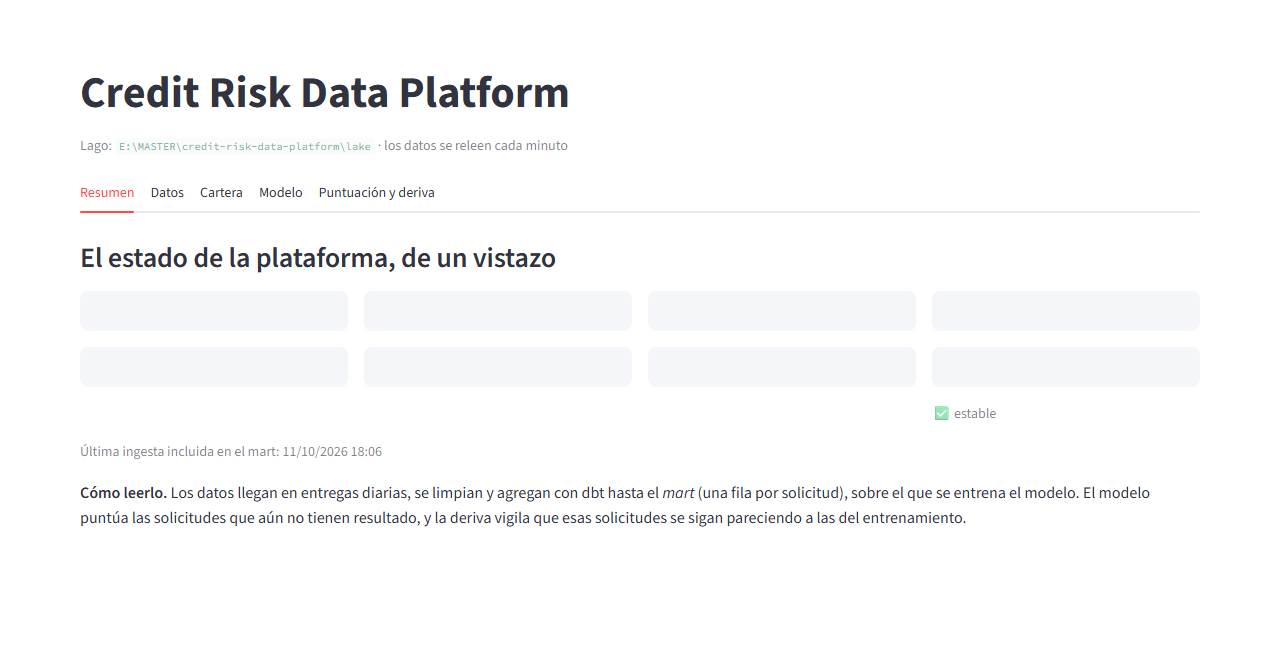
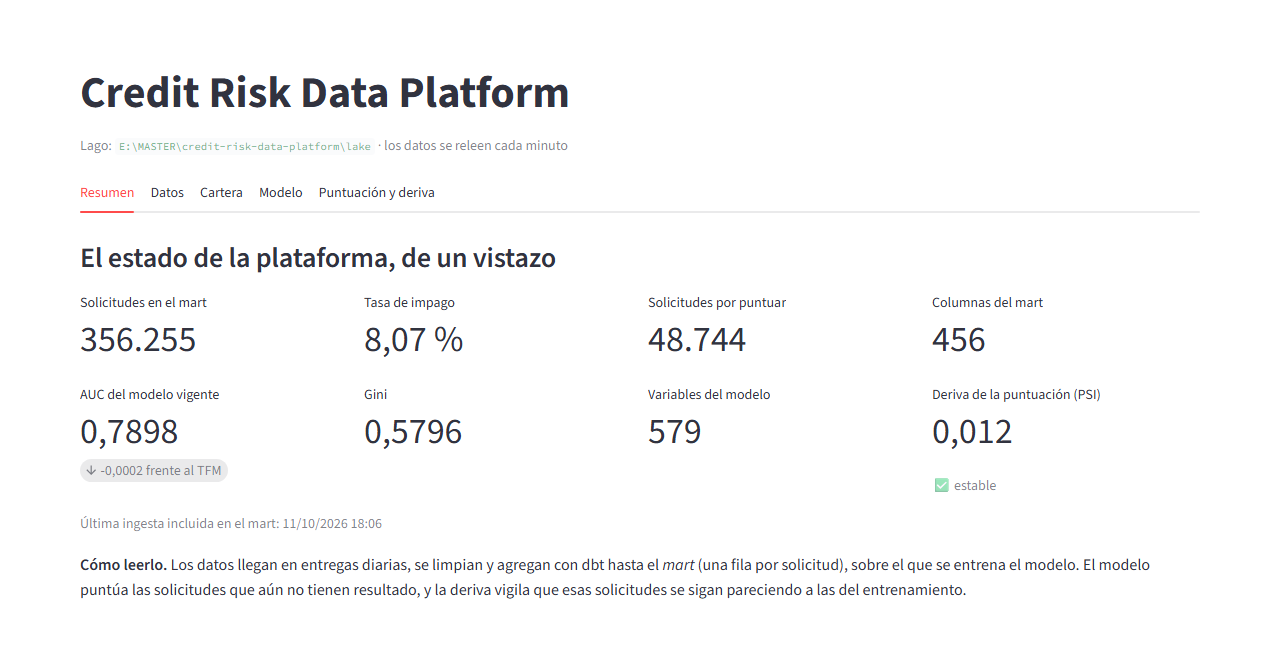
docs: documentación de dbt en GitHub Pages, guía de 5 minutos y panel fiable con pocas solicitudes (#33)
* docs: documentación de dbt en GitHub Pages, guía de 5 minutos y panel fiable con pocas solicitudes

Nuevo workflow que publica dbt docs (catálogo y grafo de linaje) en GitHub Pages. El README gana una guía para ver el proyecto funcionando con la muestra y la captura del linaje. El panel aplica la regla de monitor-drift: con menos de 1.000 solicitudes enseña el PSI sin darle un estado.

* docs: captura del resumen del panel con las cifras cargadas

diff --git a/panel/app.py b/panel/app.py
@@ -23,6 +23,7 @@ from credit_risk.config import (
     MODELS_DIR,
     SCORING_URI,
 )
+from credit_risk.deriva import MINIMO_SOLICITUDES
 
 ALMACEN = LAKE_DIR / "warehouse.duckdb"
 AUC_TFM = 0.7900
@@ -31,7 +32,12 @@ PSI_MODERADO, PSI_IMPORTANTE = 0.10, 0.25
 # Un solo azul para las magnitudes; gris para las referencias. Los colores de estado
 # solo se usan para el estado, y siempre acompañados de su etiqueta escrita.
 AZUL, GRIS = "#2a78d6", "#898781"
-ESTADOS = {"estable": "#0ca30c", "moderado": "#fab219", "importante": "#d03b3b"}
+ESTADOS = {
+    "estable": "#0ca30c",
+    "moderado": "#fab219",
+    "importante": "#d03b3b",
+    "sin valorar": GRIS,  # PSI calculado con muy pocos casos
+}
 ICONO = {"estable": "✅", "moderado": "⚠", "importante": "🔴"}
 
 st.set_page_config(page_title="Credit Risk Data Platform", page_icon="📊", layout="wide")
@@ -108,6 +114,14 @@ mart = cargar("resumen_mart", ALMACEN)
 modelo = cargar("modelo_vigente", MODELS_DIR)
 informe = cargar("deriva", DERIVA_URI, modelo["modelo"]) if modelo else pd.DataFrame()
 psi_puntuacion = float(informe.iloc[0]["psi"]) if len(informe) else None
+# Con pocas solicitudes el PSI es ruido: se enseña, pero sin darle un estado (la misma
+# regla que aplica el comando monitor-drift para no dar falsas alarmas)
+comparadas = int(informe.iloc[0]["solicitudes"]) if len(informe) else 0
+psi_fiable = comparadas >= MINIMO_SOLICITUDES
+POCO_FIABLE = (
+    f"Con {comparadas} solicitudes (menos de {MINIMO_SOLICITUDES}) el PSI no es fiable: "
+    "cada tramo tiene un puñado de casos y las diferencias son ruido, no deriva."
+)
 
 st.title("Credit Risk Data Platform")
 st.caption(f"Lago: `{LAKE_DIR}` · los datos se releen cada minuto")
@@ -151,7 +165,10 @@ with resumen:
     else:
         situacion = informe.iloc[0]["estado"]
         d.metric("Deriva de la puntuación (PSI)", decimal(psi_puntuacion, 3))
-        d.caption(f"{ICONO[situacion]} {situacion}")
+        if psi_fiable:
+            d.caption(f"{ICONO[situacion]} {situacion}")
+        else:
+            d.caption("no fiable: pocas solicitudes")
 
     st.caption(f"Última ingesta incluida en el mart: {mart['ingerido_hasta']:%d/%m/%Y %H:%M}")
     st.markdown(
@@ -385,14 +402,19 @@ with puntuacion:
             st.info("No hay informe de deriva para este modelo: ejecuta `monitor-drift`.")
         else:
             situacion = informe.iloc[0]["estado"]
-            st.markdown(
-                f"**Puntuación del modelo: PSI {decimal(psi_puntuacion, 3)} — "
-                f"{ICONO[situacion]} {situacion}.** Por debajo de {decimal(PSI_MODERADO, 2)} la "
-                f"población es estable; por encima de {decimal(PSI_IMPORTANTE, 2)} hay que "
-                "revisar el "
-                "modelo."
-            )
+            if psi_fiable:
+                st.markdown(
+                    f"**Puntuación del modelo: PSI {decimal(psi_puntuacion, 3)} — "
+                    f"{ICONO[situacion]} {situacion}.** Por debajo de "
+                    f"{decimal(PSI_MODERADO, 2)} la población es estable; por encima de "
+                    f"{decimal(PSI_IMPORTANTE, 2)} hay que revisar el modelo."
+                )
+            else:
+                st.warning(POCO_FIABLE)
+                st.markdown(f"**Puntuación del modelo: PSI {decimal(psi_puntuacion, 3)}.**")
             variables = informe.iloc[1:].head(15).copy()
+            if not psi_fiable:
+                variables["estado"] = "sin valorar"
             variables["etiqueta"] = variables.apply(
                 lambda f: f"{decimal(f['psi'], 3)} · {f['estado']}", axis=1
             )

diff --git a/tests/test_panel.py b/tests/test_panel.py
@@ -228,6 +228,10 @@ def test_el_panel_completo_con_modelo_puntuaciones_y_deriva(lake):
     assert historial["modelo"].tolist() == [resumen["modelo"]]
     assert historial.loc[0, "auc"] == pytest.approx(resumen["auc"])
 
+    # Con 300 solicitudes el PSI no es fiable: el panel lo avisa en vez de dar un estado
+    assert any("el PSI no es fiable" in a.value for a in panel.warning)
+    assert any("no fiable" in t.value for t in panel.caption)
+
     # Consultar una solicitud puntuada enseña su decil
     panel.number_input[0].set_value(1_100_000).run()
     assert not panel.exception

diff --git a/README.es.md b/README.es.md
@@ -27,6 +27,32 @@ Docker / Docker Compose · Terraform · LightGBM · MLflow · Streamlit
 - [x] Fase 5 — Cloud + Terraform + despliegue continuo (sobre AWS emulado; el despliegue a AWS real está listo pero desactivado)
 - [x] Fase 6 — La plataforma en uso: modelo de scoring sobre el mart, puntuación por lotes y monitorización de deriva
 
+## Verlo funcionando en 5 minutos
+
+Sin descargar nada de Kaggle y sin Docker: el repositorio trae una muestra sintética.
+Solo hace falta [uv](https://docs.astral.sh/uv/), que instala el Python adecuado.
+
+```bash
+git clone https://github.com/att-22/credit-risk-data-platform.git
+cd credit-risk-data-platform
+export DATA_DIR=tests/fixtures/muestra      # la muestra sintética del repositorio
+
+uv sync --group ml --group panel            # dependencias, con el modelo y el panel
+uv run simulate-source                      # el "banco" deja 30 entregas diarias
+uv run ingest-bronze                        # landing -> bronze (Parquet)
+(cd transform && uv run dbt deps && uv run dbt build)   # bronze -> mart, con sus tests
+uv run train-model --prueba                 # entrena el modelo sobre el mart
+uv run score                                # puntúa las solicitudes sin resultado
+uv run monitor-drift                        # las compara con la población de entrenamiento
+uv run streamlit run panel/app.py           # abre el panel en http://localhost:8501
+```
+
+Tarda unos dos minutos. La muestra tiene 314 clientes con los valores barajados, así
+que las cifras no significan nada (y con 52 solicitudes puntuadas, el panel avisa de
+que la medida de deriva no es fiable); lo que se ve es el camino entero funcionando,
+de los ficheros de origen al panel. Las capturas de este README son con los datos
+completos.
+
 ## Panel
 
 Todo lo que produce la plataforma acaba en ficheros Parquet; el panel es donde se ve.
@@ -92,6 +118,14 @@ flowchart LR
 | **Gold** | dbt, tabla **incremental** | Solicitud + ratios financieros + recorte de ingresos a un tope congelado (p99,9 de train) + los 5 historiales agregados. Train y test en la misma tabla (columna `CONJUNTO`). |
 
 ### Linaje de los modelos dbt
+
+La documentación de dbt (cada modelo, sus columnas, su SQL y sus tests, y el grafo de
+linaje navegable) se publica en GitHub Pages con cada cambio:
+**[att-22.github.io/credit-risk-data-platform](https://att-22.github.io/credit-risk-data-platform/)**
+
+![Grafo de linaje de dbt](docs/img/dbt-linaje.png)
+
+Una vista simplificada del mismo grafo:
 
 ```mermaid
 flowchart LR
@@ -592,6 +626,10 @@ En cada PR, GitHub Actions ejecuta en paralelo:
 
 `main` está protegida: solo se puede cambiar mediante PR, con la CI en verde y
 *squash merge*.
+
+Hay dos workflows más, fuera de los checks de los PR: **Documentación** publica la
+documentación de dbt en GitHub Pages cuando cambia el proyecto dbt, y **Despliegue**
+aplicaría la infraestructura en AWS real (desactivado; ver más arriba).
 
 ## Datos
 

diff --git a/README.md b/README.md
@@ -30,6 +30,31 @@ Docker / Docker Compose · Terraform · LightGBM · MLflow · Streamlit
 - [x] Phase 5 — Cloud + Terraform + continuous deployment (on emulated AWS; the deployment to real AWS is ready but disabled)
 - [x] Phase 6 — Putting the platform to use: scoring model on the mart, batch scoring and drift monitoring
 
+## See it working in 5 minutes
+
+No Kaggle download and no Docker: the repository ships a synthetic sample. You only
+need [uv](https://docs.astral.sh/uv/), which installs the right Python.
+
+```bash
+git clone https://github.com/att-22/credit-risk-data-platform.git
+cd credit-risk-data-platform
+export DATA_DIR=tests/fixtures/muestra      # the synthetic sample in the repository
+
+uv sync --group ml --group panel            # dependencies, with the model and the dashboard
+uv run simulate-source                      # the "bank" leaves 30 daily deliveries
+uv run ingest-bronze                        # landing -> bronze (Parquet)
+(cd transform && uv run dbt deps && uv run dbt build)   # bronze -> mart, with its tests
+uv run train-model --prueba                 # trains the model on the mart
+uv run score                                # scores the applications with no outcome
+uv run monitor-drift                        # compares them with the training population
+uv run streamlit run panel/app.py           # opens the dashboard at http://localhost:8501
+```
+
+It takes about two minutes. The sample has 314 customers with shuffled values, so
+the numbers mean nothing (and with 52 applications scored, the dashboard says the
+drift measure is not reliable); what you see is the whole path working, from the
+source files to the dashboard. The screenshots in this README use the full data.
+
 ## Dashboard
 
 Everything the platform produces ends up in Parquet files; the dashboard is where you
@@ -95,6 +120,14 @@ flowchart LR
 | **Gold** | dbt, **incremental** table | Application + financial ratios + income capped at a frozen threshold (train p99.9) + the 5 aggregated histories. Train and test share the same table (`CONJUNTO` column). |
 
 ### dbt model lineage
+
+The dbt documentation (every model, its columns, SQL and tests, and the navigable
+lineage graph) is published on GitHub Pages on every change:
+**[att-22.github.io/credit-risk-data-platform](https://att-22.github.io/credit-risk-data-platform/)**
+
+![dbt lineage graph](docs/img/dbt-linaje.png)
+
+A simplified view of the same graph:
 
 ```mermaid
 flowchart LR
@@ -592,6 +625,10 @@ On every PR, GitHub Actions runs in parallel:
 
 `main` is protected: it can only change through a PR, with green CI and
 *squash merge*.
+
+Two more workflows run outside the PR checks: **Documentación** publishes the dbt
+docs to GitHub Pages when the dbt project changes, and **Despliegue** would apply
+the infrastructure to real AWS (disabled; see above).
 
 ## Data
 
